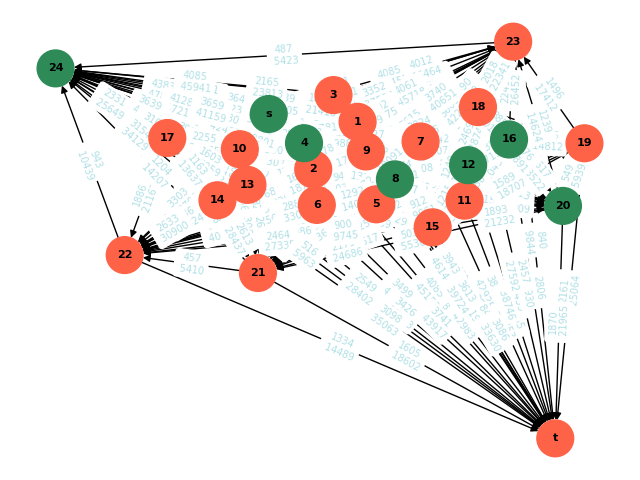
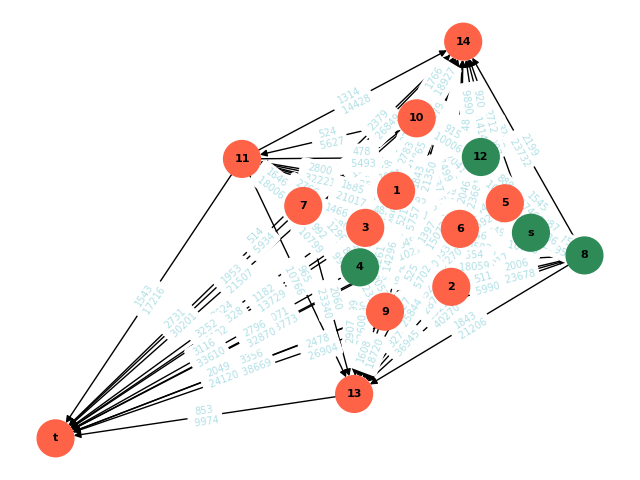
sens analysis

diff --git a/main_code/sensitivity_analysis.py b/main_code/sensitivity_analysis.py
@@ -1,0 +1,146 @@
+"""Module to perform sensitivity analysis on the network model."""
+import random
+
+import matplotlib.pyplot as plt
+import pandas as pd
+import seaborn as sns
+from gurobipy import GRB
+from icecream import ic
+from main import Main
+from set_params import SetUpParameters
+
+# ruff: noqa: TRY300
+
+
+class SensitivityAnalysis:
+    """Class to perform sensitivity analysis on the network model.
+
+    Attributes
+    ----------
+    base_params : SetUpParameters
+        The base parameters for the optimization model as defined in set_params.py.
+    base_objective_value : float
+        The objective value of the optimization model with the base parameters.
+    """
+
+    def __init__(self, base_run: Main) -> None:
+        """Initialize the SensitivityAnalysis class with base parameters.
+
+        Parameters
+        ----------
+        base_params : SetUpParameters
+            The base parameters for the optimization model as defined in set_params.py.
+        """
+        self.base_params = base_run.params
+        self.base_objective_value = self.run_optimization(self.base_params)
+        self.base_network = base_run.network
+
+    def modify_params(self, **kwargs) -> SetUpParameters:
+        """Modify parameters based on the provided keyword arguments.
+
+        Parameters
+        ----------
+        **kwargs : dict
+            Arbitrary keyword arguments representing the parameters to modify.
+
+        Returns
+        -------
+        SetUpParameters
+            The modified parameters object.
+        """
+        return SetUpParameters(**{**self.base_params.__dict__, **kwargs})
+
+    def run_optimization(self, modified_params: SetUpParameters) -> float | None:
+        """Run the optimization model with the given parameters and return the objective value or None if infeasible.
+
+        Parameters
+        ----------
+        modified_params : SetUpParameters
+            The modified parameters for the optimization model.
+
+        Returns
+        -------
+        float
+            The objective value of the optimization model if solved optimally, otherwise None.
+        """
+        random.seed(42)
+        main = Main(params=modified_params)
+        try:
+            results = main.get_results()
+            solved_model = results.model
+            if solved_model.status == GRB.OPTIMAL:
+                ic(solved_model.objVal)
+                return solved_model.objVal
+            if solved_model.status == GRB.INFEASIBLE:
+                ic(f"Optimization infeasible for parameters: {modified_params}")
+                return None
+            ic(f"Optimization resulted in status {solved_model.status} for parameters: {modified_params}")
+            return None
+        except AttributeError as e:
+            ic(f"Optimization failed due to missing attribute: {e}")
+            return None
+        except Exception as e:
+            ic(f"Optimization failed: {e}")
+            return None
+
+    def calculate_percentual_change(self, obj_val: float | None) -> float | None:
+        """Calculate the percentual change in the objective value."""
+        if obj_val is not None and self.base_objective_value is not None:
+            return (obj_val - self.base_objective_value) / self.base_objective_value * 100
+        return None
+
+    def perform_analysis(self, param_grids: dict) -> pd.DataFrame:
+        """Perform sensitivity analysis on all given parameters based on their grids.
+
+        Parameters
+        ----------
+        param_grids : dict
+            Dictionary where keys are parameter names and values are lists of values to test for sensitivity analysis.
+
+        Returns
+        -------
+        pd.DataFrame
+            DataFrame containing the results of the sensitivity analysis.
+        """
+        results = []
+        for param_name, values in param_grids.items():
+            for value in values:
+                ic(f"New sensitivity analysis for {param_name}: {value}")
+                modified_params = self.modify_params(**{param_name: value})
+                obj_val = self.run_optimization(modified_params)
+                percentual_change = (
+                    ((obj_val - self.base_objective_value) / self.base_objective_value * 100)
+                    if obj_val is not None and self.base_objective_value is not None
+                    else None
+                )
+
+                results.append({"param_name": param_name, "param_value": value, "objective_value": obj_val, "difference": percentual_change})
+        return pd.DataFrame(results)
+
+    def plot_results(self, df: pd.DataFrame) -> None:
+        """Plot the results of the sensitivity analysis.
+
+        Parameters
+        ----------
+        df : pd.DataFrame
+            DataFrame containing the results of the sensitivity analysis.
+        """
+        for param_name in df["param_name"].unique():
+            param_df = df[df["param_name"] == param_name]
+            fig, ax1 = plt.subplots(figsize=(10, 6))
+
+            sns.lineplot(data=param_df, x="param_value", y="objective_value", marker="o", ax=ax1, color="b", label="Objective Value")
+            ax1.set_xlabel(param_name)
+            ax1.set_ylabel("Objective Value", color="b")
+            ax1.tick_params(axis="y", labelcolor="b")
+
+            ax2 = ax1.twinx()
+            sns.lineplot(data=param_df, x="param_value", y="difference", marker="x", ax=ax2, color="r", label="Difference (%)")
+            ax2.set_ylabel("Difference (%)", color="r")
+            ax2.tick_params(axis="y", labelcolor="r")
+
+            fig.suptitle(f"Sensitivity Analysis for {param_name}")
+            fig.tight_layout()
+            fig.legend(loc="upper left", bbox_to_anchor=(0.1, 0.9), bbox_transform=ax1.transAxes)
+            plt.grid(True)
+            plt.show()

diff --git a/main_code/main.py b/main_code/main.py
@@ -8,18 +8,18 @@ from main_code.results import ShowResults
 from main_code.set_params import SetUpParameters
 
 # Global variables to control the display of cost table and network graph
-show_cost_table = True
-show_network_graph = True
+show_cost_table = False
+show_network_graph = False
 solve = True
 
 
 class Main:
     """Main class for the project."""
 
-    def __init__(self) -> None:
+    def __init__(self, params: SetUpParameters) -> None:
         """Init method for the Main class."""
         # Initialize network parameters
-        self.params: SetUpParameters = SetUpParameters()
+        self.params = params
         # Create the network
         self.network: AcyclicNetworkGenerator = self.create_network
         self.optimisation_model: OptimisationModel = self.set_up_optimisation_model
@@ -50,13 +50,14 @@ class Main:
 
     def get_results(self) -> ShowResults:
         """Get the results of the optimisation model."""
+        ic(self.params)
         return ShowResults(
             solved_model=self.solve_optimisation_model(), params=self.params, network=self.network, model_variables=self.model_variables
         )
 
 
 if __name__ == "__main__":
-    main = Main()
+    main = Main(params=SetUpParameters())
     # Show network graph if the flag is set
     if show_network_graph:
         main.visualise_network()

diff --git a/main_code/run_sensitivity_analysis.py b/main_code/run_sensitivity_analysis.py
@@ -1,0 +1,38 @@
+"""Module for running a sensitivity analysis on the network model."""
+from icecream import ic
+from sensitivity_analysis import SensitivityAnalysis
+from set_params import SetUpParameters
+
+from main_code.main import Main
+
+# Define the base parameters
+base_params = SetUpParameters()
+
+# Create an instance of the SensitivityAnalysis class
+sensitivity_analysis = SensitivityAnalysis(base_run=Main(params=base_params))
+
+# Define the parameter grids for sensitivity analysis
+param_grids = {
+    "network_size": [10, 15, 20, 30, 40],
+    "psi": [1400 / 18000, 1500 / 18000, 1600 / 18000, 1700 / 18000, 1800 / 18000],
+    "initial_upper_bound": [4000, 5000, 6000, 7000, 8000],
+    "fuel_capacity": [20000, 25000, 30000, 35000, 40000],
+    "w1": [1, 2, 3, 4, 5],
+    "w2": [50, 75, 100, 125, 150],
+    "m": [1, 2, 3, 4, 5],
+    "e": [0.005, 0.01, 0.015, 0.02, 0.025],
+    "max_time": [1800, 2400, 3600, 4800, 6000],
+}
+
+
+# Perform the sensitivity analysis
+results_df = sensitivity_analysis.perform_analysis(param_grids)
+
+# Save the results to a CSV file
+results_df.to_csv("sensitivity_analysis_results.csv", index=False)
+
+# Print the results
+ic(results_df)
+
+# Plot the results
+sensitivity_analysis.plot_results(results_df)

diff --git a/main_code/model_variables.py b/main_code/model_variables.py
@@ -1,6 +1,6 @@
 """Module for storing the variables for the optimization model."""
 
-from typing import Any, List
+from typing import Any
 
 import networkx as nx
 
@@ -57,6 +57,6 @@ class ModelVariables:
         return {(u, v): attrs["fuel"] for u, v, attrs in self.graph.edges(data=True)}
 
     @property
-    def set_time_periods(self) -> List[int]:
+    def set_time_periods(self) -> list[int]:
         """Set the time periods for the optimization model."""
         return list(range(1, len(self.nodes) + 1))

diff --git a/main_code/set_params.py b/main_code/set_params.py
@@ -7,10 +7,10 @@ from dataclasses import dataclass
 class SetUpParameters:
     """Parameters for the network model."""
 
-    network_size: int = 26
+    network_size: int = 16
     psi: float = 1600 / 18000
     initial_upper_bound: int = 6000
-    fuel_capacity: int = 30000
+    fuel_capacity: int = 26000
     w1: int = 1  # Weight for cost
     w2: int = 100  # Weight for refueling cost
     m: int = 4  # Lexicographic frequency

diff --git a/main_code/network.py b/main_code/network.py
@@ -9,6 +9,8 @@ from prettytable import PrettyTable
 from exports import FIGURE_PATH
 from main_code.set_params import SetUpParameters
 
+random.seed(42)
+
 
 class AcyclicNetworkGenerator:
     """
